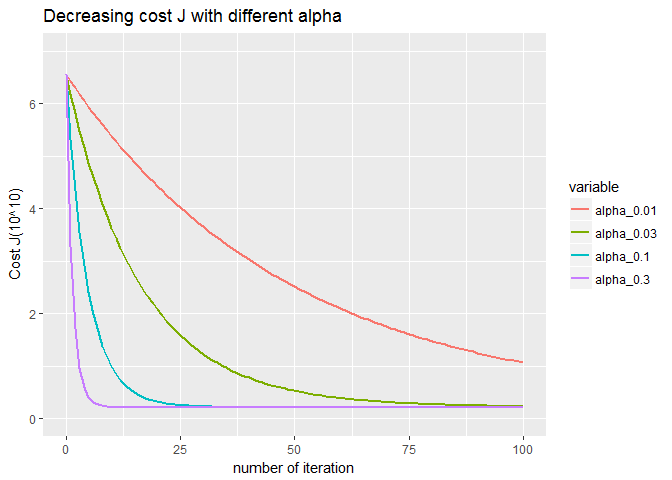
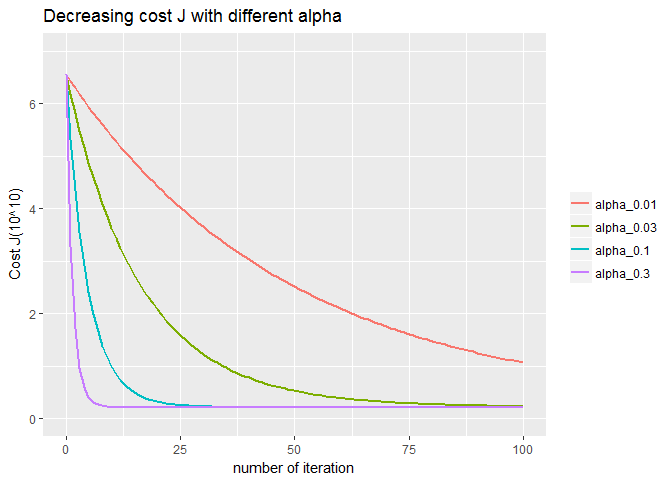
update

Changed region(s): [[0.8438, 0.375, 1.0, 0.5938]]

diff --git a/Cousera_ML_Assignment/Coursera_ML_Assignment1_update.md b/Cousera_ML_Assignment/Coursera_ML_Assignment1_update.md
@@ -268,7 +268,8 @@ df = data.frame(n_iter = c(0:100),
 df_long = melt(df, id = "n_iter")
 ggplot(data = df_long, aes(x = n_iter, y = value, colour = variable)) +
   geom_line(size = 1) + ylim(0, 7) + xlim(0, 100) + ylab("Cost J(10^10)") +
-  xlab("number of iteration") + ggtitle("Decreasing cost J with different alpha")
+  theme(legend.title = element_blank()) +
+  xlab("number of iteration") + ggtitle("Decreasing cost J with different alpha") 
 ```
 
 ![](Coursera_ML_Assignment1_update_files/figure-markdown_github-ascii_identifiers/visualization-1.png)
